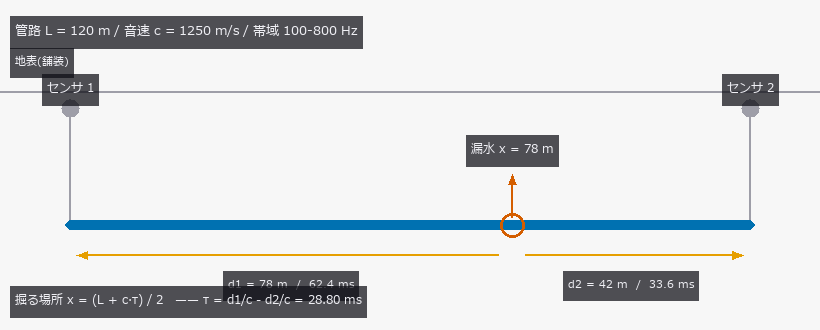
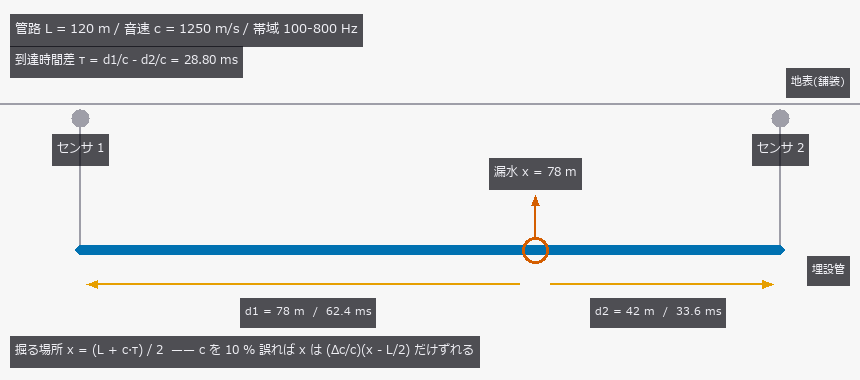
auto: poc_pv_thermal_survey.py 編集前 (2026-09-08 03:23)

Changed region(s): [[0.0, 0.0303, 1.0, 0.9091], [0.0, 0.7273, 0.6098, 0.9697]]

diff --git a/examples/poc_leak_localization.py b/examples/poc_leak_localization.py
@@ -245,52 +245,59 @@ def threshold_prediction() -> float:
 def _scene_figure(rec: dict) -> None:
     if not figs.enabled():
         return
-    w, h = 820, 330
+    w, h = 860, 380
     img = np.full((h, w, 3), 0.97)
-    x0, x1, ypipe = 70.0, float(w - 70), 225.0
+    x0, x1, ypipe, yground = 80.0, float(w - 80), 250.0, 104.0
 
     def px(m: float) -> float:
         return x0 + (x1 - x0) * (m / L_M)
 
-    img = np.asarray(fs.draw_line(img, (0.0, 92.0), (float(w), 92.0),
+    img = np.asarray(fs.draw_line(img, (0.0, yground), (float(w), yground),
                                   color="neutral", width=2))
-    img = np.asarray(fs.text_box(img, "地表(舗装)", (10.0, 78.0), anchor="lb",
-                                 font_size=11))
+    img = np.asarray(fs.text_box(img, "地表(舗装)", (float(w - 10), yground - 6),
+                                 anchor="rb", font_size=11))
     img = np.asarray(fs.draw_line(img, (x0, ypipe), (x1, ypipe),
                                   color="reference", width=10))
+    img = np.asarray(fs.text_box(img, "埋設管", (float(w - 10), ypipe + 6),
+                                 anchor="rt", color="reference", font_size=11))
     for m, name in ((0.0, "センサ 1"), (L_M, "センサ 2")):
-        img = np.asarray(fs.draw_line(img, (px(m), 100.0), (px(m), ypipe - 6.0),
+        img = np.asarray(fs.draw_line(img, (px(m), yground + 6.0),
+                                      (px(m), ypipe - 6.0),
                                       color="neutral", width=2))
-        img = np.asarray(fs.draw_circle(img, (px(m), 108.0), 9.0,
+        img = np.asarray(fs.draw_circle(img, (px(m), yground + 14.0), 9.0,
                                         color="neutral", width=2, fill=True))
-        img = np.asarray(fs.text_box(img, name, (px(m), 74.0), anchor="ct",
-                                     font_size=12))
-    img = np.asarray(fs.draw_circle(img, (px(X_LEAK), ypipe), 11.0,
+        img = np.asarray(fs.text_box(img, name, (px(m), yground + 30.0),
+                                     anchor="ct", font_size=12))
+    img = np.asarray(fs.draw_circle(img, (px(X_LEAK), ypipe), 12.0,
                                     color="wrong", width=3, fill=False))
-    img = np.asarray(fs.arrow(img, (px(X_LEAK), ypipe - 8.0),
-                              (px(X_LEAK), ypipe - 52.0), color="wrong", width=2))
+    img = np.asarray(fs.arrow(img, (px(X_LEAK), ypipe - 14.0),
+                              (px(X_LEAK), ypipe - 56.0), color="wrong", width=2))
     img = np.asarray(fs.text_box(img, "漏水 x = %.0f m" % X_LEAK,
-                                 (px(X_LEAK), ypipe - 58.0), anchor="cb",
+                                 (px(X_LEAK), ypipe - 60.0), anchor="cb",
                                  color="wrong", font_size=12))
-    img = np.asarray(fs.arrow(img, (px(X_LEAK) - 14.0, ypipe + 30.0),
-                              (px(0.0) + 6.0, ypipe + 30.0), color="emphasis",
+    img = np.asarray(fs.arrow(img, (px(X_LEAK) - 16.0, ypipe + 34.0),
+                              (px(0.0) + 6.0, ypipe + 34.0), color="emphasis",
                               width=2))
-    img = np.asarray(fs.arrow(img, (px(X_LEAK) + 14.0, ypipe + 30.0),
-                              (px(L_M) - 6.0, ypipe + 30.0), color="emphasis",
+    img = np.asarray(fs.arrow(img, (px(X_LEAK) + 16.0, ypipe + 34.0),
+                              (px(L_M) - 6.0, ypipe + 34.0), color="emphasis",
                               width=2))
     img = np.asarray(fs.text_box(
         img, "d1 = %.0f m  /  %.1f ms" % (X_LEAK, 1e3 * rec["t1"]),
-        (px(X_LEAK * 0.5), ypipe + 46.0), anchor="ct", font_size=11))
+        (px(X_LEAK * 0.5), ypipe + 48.0), anchor="ct", font_size=11))
     img = np.asarray(fs.text_box(
         img, "d2 = %.0f m  /  %.1f ms" % (L_M - X_LEAK, 1e3 * rec["t2"]),
-        (px((X_LEAK + L_M) * 0.5), ypipe + 46.0), anchor="ct", font_size=11))
+        (px((X_LEAK + L_M) * 0.5), ypipe + 48.0), anchor="ct", font_size=11))
     img = np.asarray(fs.text_box(
         img, "管路 L = %.0f m / 音速 c = %.0f m/s / 帯域 %.0f-%.0f Hz"
-        % (L_M, C_TRUE, BAND[0], BAND[1]), (10.0, 16.0), anchor="lt", font_size=13))
+        % (L_M, C_TRUE, BAND[0], BAND[1]), (10.0, 14.0), anchor="lt",
+        font_size=13))
     img = np.asarray(fs.text_box(
-        img, "掘る場所 x = (L + c·τ) / 2   —— τ = d1/c - d2/c = %.2f ms"
-        % (1e3 * rec["tau_true"]), (10.0, float(h - 12)), anchor="lb",
-        color="emphasis", font_size=12))
+        img, "到達時間差 τ = d1/c - d2/c = %.2f ms" % (1e3 * rec["tau_true"]),
+        (10.0, 46.0), anchor="lt", font_size=12))
+    img = np.asarray(fs.text_box(
+        img, "掘る場所 x = (L + c·τ) / 2  —— c を 10 % 誤れば x は "
+             "(Δc/c)(x - L/2) だけずれる",
+        (10.0, float(h - 12)), anchor="lb", color="emphasis", font_size=12))
     figs.save("scene", img,
               "埋設管の 2 点に相関式漏水探知機を当てる。位置は到達時間差 τ と "
               "音速 c だけで決まる。")
